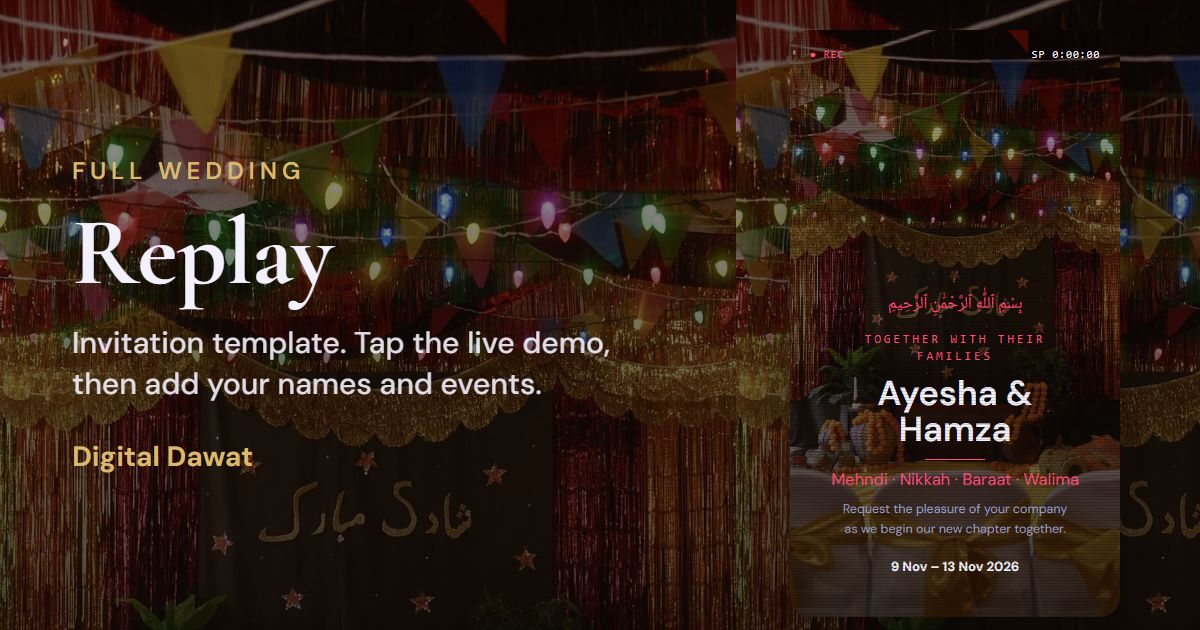
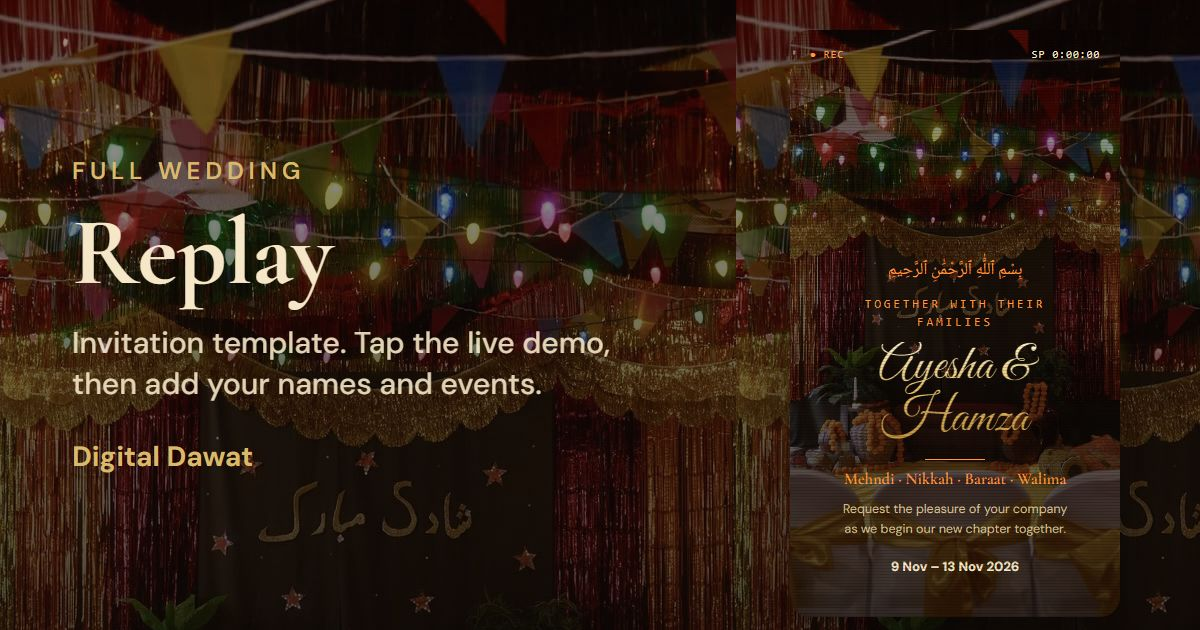
Replay: Rewind-style look - gold script names, warm sepia palette, orange tape lettering with VHS colour split

diff --git a/src/components/invite/InviteExperience.tsx b/src/components/invite/InviteExperience.tsx
@@ -7,7 +7,7 @@ import {
   BISMILLAH, buildIcs, eventsDateText, formatEventDate, formatEventTime, type InviteContent, type InviteEvent,
 } from "@/lib/content";
 import { burst, type TapFx } from "@/lib/tapFx";
-import { ArtHero, InviteCard } from "./InviteCard";
+import { ArtHero, GOLD, InviteCard } from "./InviteCard";
 import { Families } from "./Families";
 import { Ornament, isTallOrnament } from "./Ornament";
 import { Rsvp } from "./Rsvp";
@@ -127,6 +127,9 @@ function Tag({ tape, label }: { tape: boolean; label: string }) {
     </p>
   );
 }
+
+/** VHS colour split: a faint red and cyan ghost either side of tape lettering. */
+const VHS = "-1.5px 0 rgba(255,40,90,0.55), 1.5px 0 rgba(0,220,255,0.55)";
 
 const pad = (n: number) => String(n).padStart(2, "0");
 const timecode = (s: number) => `${Math.floor(s / 3600)}:${pad(Math.floor(s / 60) % 60)}:${pad(s % 60)}`;
@@ -359,7 +362,7 @@ export function InviteExperience({
 
       {/* tape: on-screen display (play state, timecode, viewfinder corners, date stamp, scroll hint) */}
       {tape && opened && (
-        <div aria-hidden className="pointer-events-none absolute inset-0 z-10 font-mono text-white [text-shadow:0_0_6px_rgba(0,0,0,0.8)]">
+        <div aria-hidden className="pointer-events-none absolute inset-0 z-10 font-mono text-white" style={{ textShadow: `${VHS}, 0 0 6px rgba(0,0,0,0.8)` }}>
           <div className="absolute inset-x-0 top-0 h-[calc(4rem+var(--frame-top,0px))] bg-gradient-to-b from-black/70 to-transparent" />
           <div className="absolute inset-x-0 bottom-0 h-[calc(5rem+var(--frame-bottom,0px))] bg-gradient-to-t from-black/70 to-transparent" />
           <p className="absolute left-5 top-[calc(1rem+var(--frame-top,0px))] text-sm font-bold tracking-[0.2em]">PLAY ▶</p>
@@ -401,7 +404,7 @@ export function InviteExperience({
             fontFamily: ur ? "var(--nf-urdu), serif" : "var(--nf-sans), system-ui, sans-serif",
           }}
         >
-          <Ornament kind={t.ornament} className={`pointer-events-none absolute left-1/2 top-[6%] -translate-x-1/2 opacity-30 ${tall ? "h-[88%] w-[88%]" : "w-[70%]"}`} />
+          {!(tape && template.backdrop) && <Ornament kind={t.ornament} className={`pointer-events-none absolute left-1/2 top-[6%] -translate-x-1/2 opacity-30 ${tall ? "h-[88%] w-[88%]" : "w-[70%]"}`} />}
           {template.art && <ArtHero art={template.art} bg={t.bg} />}
           {tape && (
             <>
@@ -415,11 +418,13 @@ export function InviteExperience({
           )}
           <div className="rise relative flex flex-col items-center gap-4 px-8" style={template.art ? { textShadow: `0 0 8px ${t.bg}, 0 0 18px ${t.bg}` } : undefined}>
             {content.bismillah && <p lang="ar" dir="rtl" className="text-2xl" style={{ color: t.accent, fontFamily: "var(--nf-naskh), serif", lineHeight: 1.9 }}>{BISMILLAH}</p>}
-            <p className={`text-xs uppercase tracking-[0.3em] ${mono}`} style={{ color: t.accent }}>{tape && !ur ? "The wedding of" : content.headline}</p>
-            <h2 className="text-5xl leading-tight" style={{ fontFamily: font, fontWeight: 600 }}>{names}</h2>
+            <p className={`text-xs uppercase tracking-[0.3em] ${mono}`} style={{ color: t.accent, ...(tape ? { textShadow: VHS } : {}) }}>{tape && !ur ? "The wedding of" : content.headline}</p>
+            {tape && !ur
+              ? <h2 className="pb-2 text-7xl leading-[1.05]" style={{ fontFamily: "var(--nf-script), cursive", fontWeight: 400, backgroundImage: GOLD, WebkitBackgroundClip: "text", backgroundClip: "text", color: "transparent" }}>{names}</h2>
+              : <h2 className="text-5xl leading-tight" style={{ fontFamily: font, fontWeight: 600 }}>{names}</h2>}
             <div className="h-px w-16" style={{ background: t.accent }} />
             <p className={mono} style={{ color: tape ? t.accent : t.muted }}>{tape ? stamp : eventsDateText(content, loc)}</p>
-            <button type="button" onClick={open} className={`btn mt-6 ${tape ? "font-mono uppercase tracking-[0.25em]" : ""}`} style={{ background: t.accent, color: t.bg }}>
+            <button type="button" onClick={open} className={`btn mt-6 ${tape ? "font-mono uppercase tracking-[0.25em]" : ""}`} style={{ background: t.accent, color: t.bg, ...(tape ? { boxShadow: "0 4px 0 #A8531A" } : {}) }}>
               {ur ? "کھولنے کے لیے ٹیپ کریں" : tape ? "▶ Press play" : "Tap to open"}
             </button>
             <ChevronDown className="mt-2 size-5 opacity-60" aria-hidden />

diff --git a/src/components/invite/InviteCard.tsx b/src/components/invite/InviteCard.tsx
@@ -3,6 +3,9 @@ import type { Template } from "@/lib/templates";
 import { BISMILLAH, eventsDateText, eventsTitle, formatEventTime, type InviteContent } from "@/lib/content";
 import { Ornament, isTallOrnament } from "./Ornament";
 
+/** Brushed-gold fill for script names. */
+export const GOLD = "linear-gradient(180deg, #fff1c9 0%, #e8c06a 45%, #b98a35 100%)";
+
 const HEADING: Record<Template["theme"]["headingFont"], string> = {
   serif: "var(--nf-display), Georgia, serif",
   script: "var(--nf-display), Georgia, serif",
@@ -43,6 +46,7 @@ export function InviteCard({ template, content, chrome = true, clear = false }: 
   const tall = isTallOrnament(t.ornament);
   // soft halo so text stays readable where it overlaps real artwork
   const glow = template.art ? `0 0 6px ${t.bg}, 0 0 14px ${t.bg}, 0 0 22px ${t.bg}` : undefined;
+  const gold = template.concept === "tape" && !ur; // gold script lettering, like a home-video title card
   const names = content.host2 ? `${content.host1} & ${content.host2}` : content.host1;
   const style: CSSProperties = {
     background: clear
@@ -92,11 +96,12 @@ export function InviteCard({ template, content, chrome = true, clear = false }: 
         </p>
         <h2
           style={{
-            fontFamily: head,
-            fontSize: names.length > 22 ? "9cqw" : content.bismillah ? "10.5cqw" : "12cqw",
+            fontFamily: gold ? "var(--nf-script), cursive" : head,
+            ...(gold ? { backgroundImage: GOLD, WebkitBackgroundClip: "text", backgroundClip: "text", color: "transparent", paddingBottom: "1cqw" } : {}),
+            fontSize: gold ? (names.length > 22 ? "11cqw" : "15cqw") : names.length > 22 ? "9cqw" : content.bismillah ? "10.5cqw" : "12cqw",
             lineHeight: ur ? 1.8 : 1.05,
-            fontWeight: 600,
-            fontStyle: t.headingFont === "script" && !ur ? "italic" : "normal",
+            fontWeight: gold ? 400 : 600,
+            fontStyle: t.headingFont === "script" && !ur && !gold ? "italic" : "normal",
             overflowWrap: "anywhere",
           }}
         >

diff --git a/src/app/layout.tsx b/src/app/layout.tsx
@@ -1,9 +1,10 @@
 import type { Metadata, Viewport } from "next";
-import { Cormorant_Garamond, DM_Sans, Noto_Naskh_Arabic, Noto_Nastaliq_Urdu } from "next/font/google";
+import { Cormorant_Garamond, DM_Sans, Great_Vibes, Noto_Naskh_Arabic, Noto_Nastaliq_Urdu } from "next/font/google";
 import "./globals.css";
 import { SiteHeader, SiteFooter } from "@/components/Site";
 import { SITE_NAME, SITE_URL } from "@/lib/site";
 
+const script = Great_Vibes({ variable: "--nf-script", subsets: ["latin"], weight: "400", preload: false, display: "swap" });
 const sans = DM_Sans({ variable: "--nf-sans", subsets: ["latin"] });
 const display = Cormorant_Garamond({ variable: "--nf-display", subsets: ["latin"], weight: ["600", "700"] });
 // The Urdu font is large (about 230 KiB) and only needed for Arabic-script text, so it is not preloaded;
@@ -38,7 +39,7 @@ export const viewport: Viewport = {
 
 export default function RootLayout({ children }: LayoutProps<"/">) {
   return (
-    <html lang="en" className={`${sans.variable} ${display.variable} ${urdu.variable} ${naskh.variable} h-full antialiased`}>
+    <html lang="en" className={`${sans.variable} ${display.variable} ${script.variable} ${urdu.variable} ${naskh.variable} h-full antialiased`}>
       <body className="min-h-full flex flex-col">
         <a href="#main" className="sr-only focus:not-sr-only focus:absolute focus:z-50 focus:bg-white focus:p-3">
           Skip to content

diff --git a/src/lib/tapFx.ts b/src/lib/tapFx.ts
@@ -73,7 +73,7 @@ function cheer(x: number, y: number) {
   el.style.cssText =
     `position:fixed;left:${Math.min(Math.max(x, 70), window.innerWidth - 70)}px;top:${y}px;z-index:61;pointer-events:none;` +
     "transform:translate(-50%,-50%);font:700 18px/1 ui-monospace,monospace;letter-spacing:.08em;color:#fff;" +
-    "text-shadow:0 0 8px #ff4f8b,0 0 18px #ff4f8b;white-space:nowrap";
+    "text-shadow:0 0 8px #ff9a3c,0 0 18px #ff9a3c;white-space:nowrap";
   document.body.appendChild(el);
   const drift = reduced() ? 0 : -80;
   el.animate(

diff --git a/src/lib/templates.ts b/src/lib/templates.ts
@@ -276,7 +276,7 @@ export const TEMPLATES: Template[] = [
     tags: ["retro", "vhs", "tape", "full wedding", "fun", "dark"],
     price: 3999,
     popular: true,
-    theme: { bg: "#0C0B14", bg2: "#1B1230", ink: "#F4F1FF", accent: "#FF4D7E", muted: "#9FA0C8", ornament: "bars", headingFont: "sans" },
+    theme: { bg: "#140C08", bg2: "#2A160C", ink: "#F6E7C8", accent: "#FF9A3C", muted: "#D9C29A", ornament: "bars", headingFont: "script" },
   },
   {
     id: "gulistan-nikkah",
